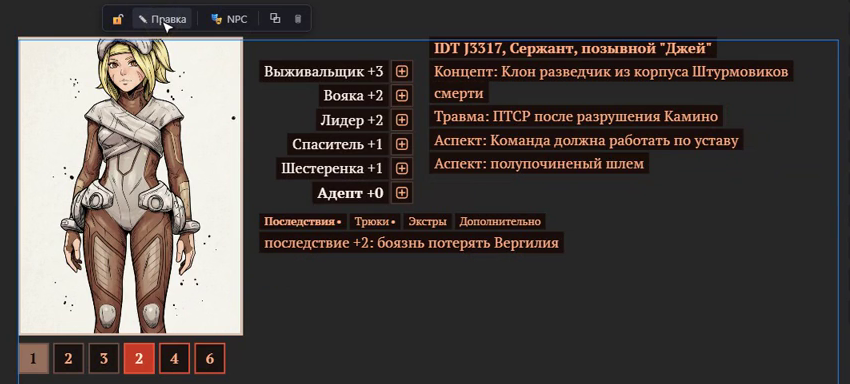
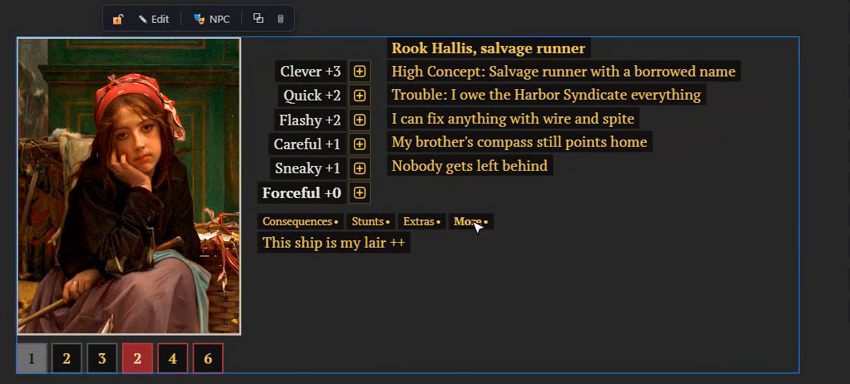
Release 0.3.1
Fixed: in edit mode, clicking from one line straight into another sometimes left no text cursor. New demo GIFs in the README.

diff --git a/README.md b/README.md
@@ -18,6 +18,8 @@ This card tries to keep Miro / Figma approach and adds the bits your table actua
 
 **Creating a card.** The GM creates cards with the card button on the WBE toolbar. Only the GM can create and delete them.
 
+![Creating a card](create-card.gif)
+
 **Playing dice and some more.** Click the die next to a skill to roll `4dF + skill` to chat (Dice So Nice picks it up). Click a stress or consequence box to mark it. Marking a red box opens the Consequences tab. The bottom tabs are Consequences, Stunts, Extras and More.
 
 **Editing.** Select the card and press **Edit** on its toolbar. Everything becomes editable:
@@ -28,6 +30,8 @@ This card tries to keep Miro / Figma approach and adds the bits your table actua
 - Portrait: click the frame to pick a file, paste a screenshot with Ctrl+V, or drop a file from disk. The ✥ button lets you drag the picture inside the frame, − and + zoom it, and you can switch the frame between the picture's shape, square and 3:4.
 - **Themes**: seven colour schemes plus your own colours for skills, text, UI and the text background. **⚙**: card language (English or Russian) and text/UI sizes.
 - Drag the corner handle to scale the card.
+
+![Filling a card from scratch](fill-card.gif)
 
 While someone edits a card, it is locked for everybody else until they finish. Changes go out when you leave a line, not on every keystroke.
 
@@ -51,6 +55,10 @@ Foundry VTT v11 to v14, with Whiteboard Experience 0.9.1 or newer.
 - Hiding fields from players is for convenience, not secrecy: the hidden text still reaches every player's browser.
 - Cards made with the old prototype (before 0.3.0) are removed the first time the GM loads the world with this version.
 
+## Credits
+
+The portrait in the demos is *The Rag Picker* by Guillaume-Charles Brun (1870), public domain, via [Wikimedia Commons](https://commons.wikimedia.org/wiki/File:CharlesGuillaumeBrunRagGather.jpg).
+
 ## License
 
 MIT
@@ -58,6 +66,10 @@ MIT
 ---
 
 ## Changelog
+
+### v0.3.1
+
+- Fixed: in edit mode, clicking from one line straight into another (say, from the name into an empty aspect) sometimes left no text cursor, so you had to click twice.
 
 ### v0.3.0
 
